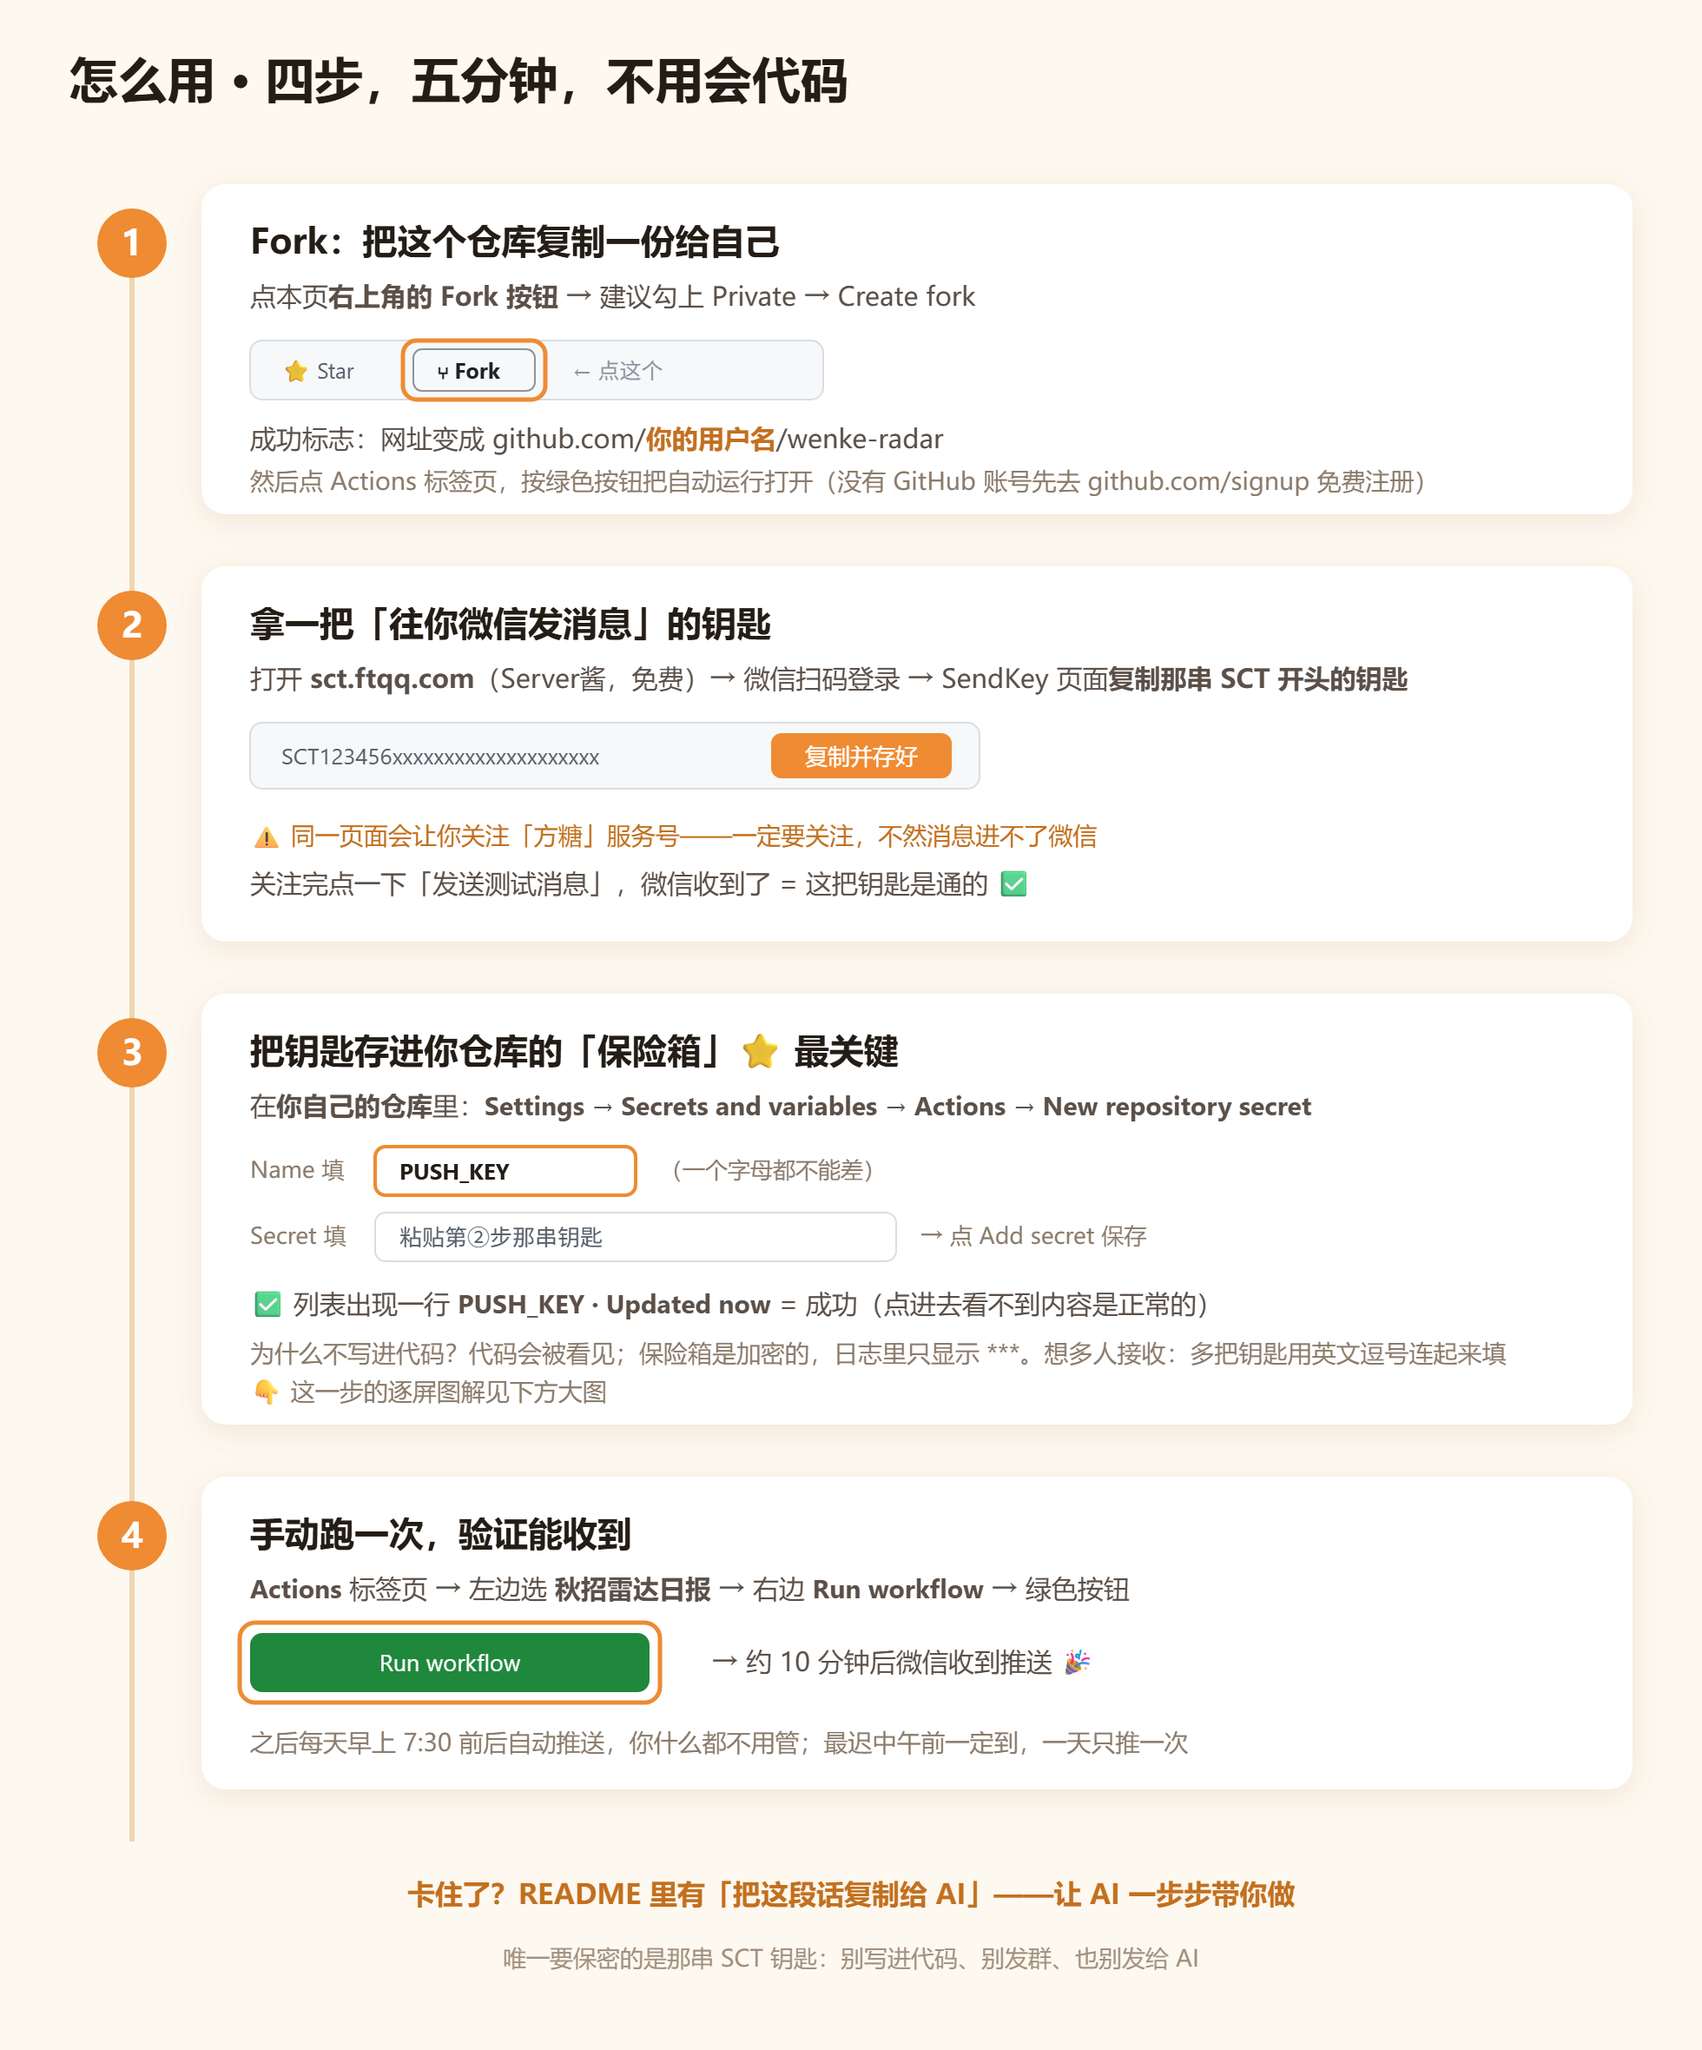
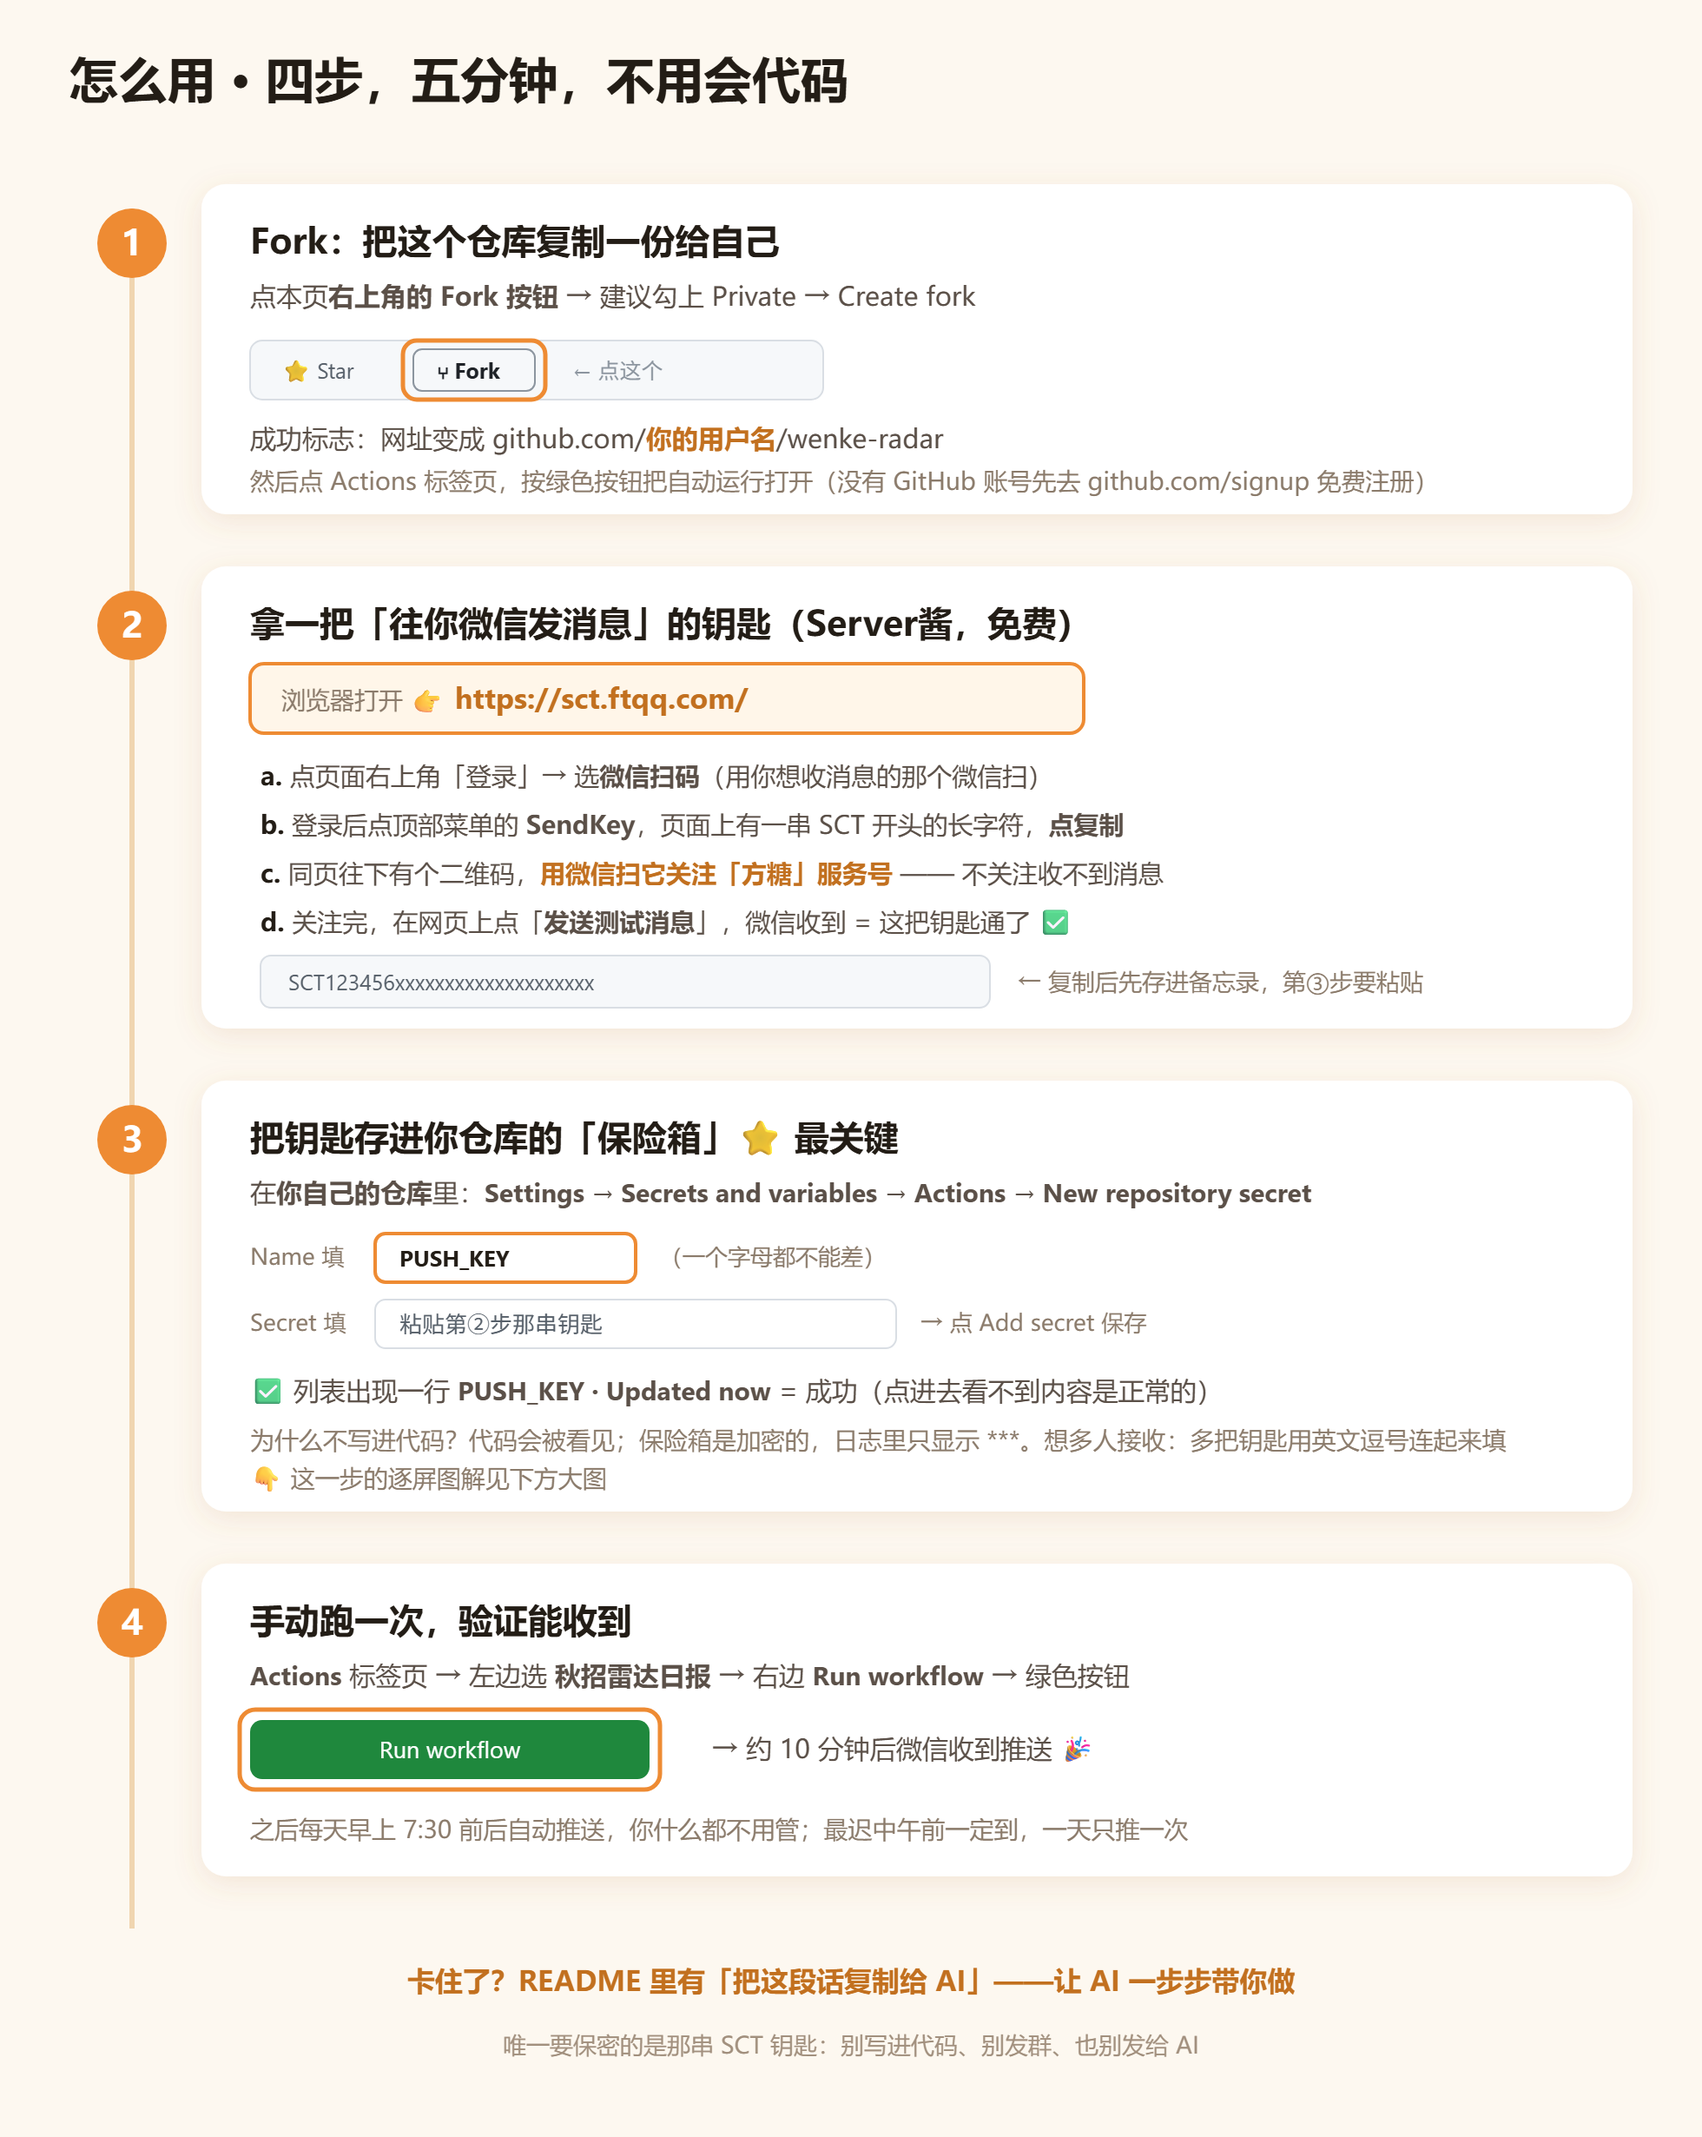
docs: 第②步给出完整网址并拆成 a~d 四小步；仓库名改回 wenke-radar
- usage-guide 第②步：https://sct.ftqq.com/ 单独高亮成框，下面 a/b/c/d
  逐步说清（登录方式/点哪个菜单/扫哪个二维码关注方糖/发测试消息验证）
- README 正文也补上可点的 Server酱 网址
- 仓库名改回 wenke-radar，文档内引用同步回退

diff --git a/README.md b/README.md
@@ -25,6 +25,7 @@
   <img src="assets/usage-guide.png" alt="怎么用：四步图解" width="100%">
 </p>
 
+第 2 步要打开的网址（Server酱，免费）：**https://sct.ftqq.com/**
 第 3 步（填保险箱）的逐屏图解：
 
 <p align="center">
@@ -41,7 +42,7 @@
 
 ```text
 我是 GitHub 零基础用户，正在配置一个开源项目「不绝望的文科生秋招」
-（github.com/onism1767-creator/bujuewang-wenke-qiuzhao）。它是一个每天早上把新招聘岗位
+（github.com/onism1767-creator/wenke-radar）。它是一个每天早上把新招聘岗位
 推送到我微信的小工具。
 
 我现在要做的事：我已经从 Server酱（sct.ftqq.com）拿到了一串 SCT 开头的 SendKey，
@@ -61,7 +62,7 @@ Settings → Secrets and variables → Actions → New repository secret，
 已经配完但**收不到推送**？把这段发给 AI：
 
 ```text
-我在用一个叫「不绝望的文科生秋招」的 GitHub 项目（github.com/onism1767-creator/bujuewang-wenke-qiuzhao），
+我在用一个叫「不绝望的文科生秋招」的 GitHub 项目（github.com/onism1767-creator/wenke-radar），
 它通过 Server酱 往我微信推送招聘岗位。我已经把 SendKey 填进仓库的
 Settings → Secrets and variables → Actions 里，名字是 PUSH_KEY，
 但微信收不到消息。

diff --git a/CONTRIBUTING.md b/CONTRIBUTING.md
@@ -36,8 +36,8 @@
 ## 环境准备
 
 ```bash
-git clone https://github.com/你的用户名/bujuewang-wenke-qiuzhao.git
-cd bujuewang-wenke-qiuzhao
+git clone https://github.com/你的用户名/wenke-radar.git
+cd wenke-radar
 pip install -r requirements.txt
 
 # Windows 必须带 PYTHONUTF8=1，否则中文/emoji 会报错
